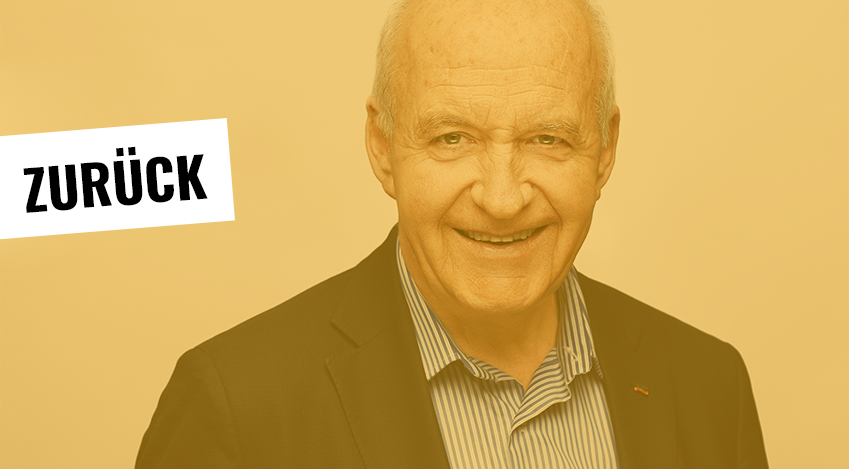
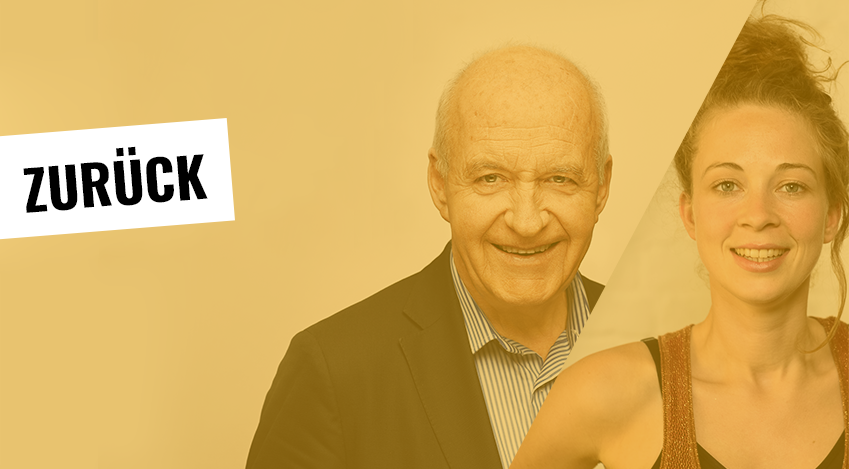
images updated, text gendered

diff --git a/src/pages/werde-botschafterin.js b/src/pages/werde-botschafterin.js
@@ -1,11 +1,13 @@
 import React from "react"
 import { Link } from "gatsby"
+import { Container, Row, Col, Image, Modal, Button } from "react-bootstrap"
 
 import Layout from "../components/layout"
 import SEO from "../components/seo"
 
 import Header from "../components/Header"
 import BotschafterWerner from "../components/images/botschafterWerner"
+import BotschafterSteinhaus from "../components/images/botschafterSteinhaus"
 import DownloadIcon from "../components/images/download-icon"
 
 import BtnGrundeinkommenSchwarz from "../components/images/btnGrundeinkommenSchwarz"
@@ -13,14 +15,42 @@ import BtnGrundeinkommenOrange from "../components/images/btnGrundeinkommenOrang
 import BotschafterBackBlack from "../components/images/botschafterBackBlack"
 import BotschafterBackOrange from "../components/images/botschafterBackOrange"
 
-const WerdeBotschafter = () => (
+/* function MyVerticallyCenteredModal(props) {
+  return (
+    <Modal
+      {...props}
+      size="lg"
+      aria-labelledby="contained-modal-title-vcenter"
+      centered
+    >
+      <Modal.Header closeButton>
+      </Modal.Header>
+      <Modal.Body>
+        {console.log(props)}
+      <BotschafterWerner/>
+      </Modal.Body>
+    </Modal>
+  );
+} */
+
+
+function WerdeBotschafter() {
+/*   const [modalShow, setModalShow] = React.useState(false); */
+
+  return (
   <Layout>
     <SEO title="Werde Botschafter"
-    imgFb="/BGE_post_facebook_1200x627_5.jpg"/>
+    imgFb="/BGE_post_facebook_1200x627_5.jpg"
+    slug="/werde-botschafter"/>
     <div className="container">
       <Header url="/werde-botschafterin"/>
       <div className="row pb-4 mt-lg-3 pt-md-5">
         <div className="col-lg-6">
+          <BotschafterSteinhaus/>
+          <p className="mt-3 font-italic">Helena Steinhaus, Gründerin von Sanktionsfrei:</p>
+          <p className="px-5 mt-3 mb-5 text-center">
+            „Grundeinkommen ist ein Grundpfeiler auf dem Weg zur sozialen und Geschlechtergerechtigkeit.”
+          </p>
           <BotschafterWerner/>
           <p className="mt-3 font-italic">Götz W. Werner, Gründer von dm-drogerie markt:</p>
           <p className="px-5 mt-3 mb-5 text-center">
@@ -41,6 +71,23 @@ const WerdeBotschafter = () => (
             <strong>#bedingungslosesGrundeinkommen</strong><br/>
             <strong>#bge</strong><br/>
           </p>
+{/*           <Container>
+            <Row>
+              <Col xs={6} md={4}>
+                <Image src="holder.js/171x180" thumbnail onClick={() => setModalShow(true)}/>
+                <MyVerticallyCenteredModal
+                    show={modalShow}
+                    onHide={() => setModalShow(false)}
+                  />
+              </Col>
+              <Col xs={6} md={4}>
+                <Image src="holder.js/171x180" thumbnail onClick={() => setModalShow(true)}/>
+              </Col>
+              <Col xs={6} md={4}>
+                <Image src="holder.js/171x180" thumbnail onClick={() => setModalShow(true)}/>
+              </Col>
+            </Row>
+          </Container> */}
           <div className="my-4">
             <a href="/BGE_post_facebook_1200x627_9.zip" download className="custom-anchor">
               <div className="row">
@@ -66,44 +113,45 @@ const WerdeBotschafter = () => (
         </div>
       </div>
     </div>
- <div className="bg-light pb-3">
-        <div className="container">
-            <div className="row">
-                <div className="col-lg-6 py-3 pt-lg-5">
-                    <div className="btn-container mx-auto">
-                        <Link to="/warum-grundeinkommen">
-                          <BtnGrundeinkommenSchwarz/>
-                            <div className="overlay col-lg-12 py-3 pt-lg-5">
-                              <BtnGrundeinkommenOrange/>
-                            </div>
-                        </Link>
-                    </div>
-                </div>
-                <div className="col-lg-6 pb-3 pt-lg-5">
-                    <div className="btn-container mx-auto">
-                        <Link to="/">
-                          <BotschafterBackBlack/>
-                            <div className="overlay col-lg-12 pb-3 pt-lg-5">
-                              <BotschafterBackOrange/>
-                            </div>
-                        </Link>
-                        <p className="text-dark pt-2 pr-3 mb-0 text-right font-italic">Götz W. Werner, Gründer von dm-drogerie markt</p>
-                    </div>
-                </div>
-            </div>
-        </div>
-        <footer class="py-2">
-          <div className="container">
-              <div className="row">
-                  <div className="col-12 text-center">
-                      <Link to="/impressum/" className="mx-3">Impressum</Link>
-                      <Link to="/datenschutz/" className="mx-3">Datenschutz</Link>
+  <div className="bg-light pb-3">
+      <div className="container">
+          <div className="row">
+              <div className="col-lg-6 py-3 pt-lg-5">
+                  <div className="btn-container mx-auto">
+                      <Link to="/warum-grundeinkommen">
+                        <BtnGrundeinkommenSchwarz/>
+                          <div className="overlay col-lg-12 py-3 pt-lg-5">
+                            <BtnGrundeinkommenOrange/>
+                          </div>
+                      </Link>
+                  </div>
+              </div>
+              <div className="col-lg-6 pb-3 pt-lg-5">
+                  <div className="btn-container mx-auto">
+                      <Link to="/">
+                        <BotschafterBackBlack/>
+                          <div className="overlay col-lg-12 pb-3 pt-lg-5">
+                            <BotschafterBackOrange/>
+                          </div>
+                      </Link>
+                       
                   </div>
               </div>
           </div>
-        </footer>
+      </div>
+      <footer class="py-2">
+        <div className="container">
+            <div className="row">
+                <div className="col-12 text-center">
+                    <Link to="/impressum/" className="mx-3">Impressum</Link>
+                    <Link to="/datenschutz/" className="mx-3">Datenschutz</Link>
+                </div>
+            </div>
+        </div>
+      </footer>
     </div>
   </Layout>
-)
+  )
+}
 
 export default WerdeBotschafter

diff --git a/src/components/seo.js b/src/components/seo.js
@@ -7,10 +7,11 @@
 
 import React from "react"
 import PropTypes from "prop-types"
+import favicon from '../images/favicon.ico'
 import Helmet from "react-helmet"
 import { useStaticQuery, graphql } from "gatsby"
 
-function SEO({ description, lang, meta, title, imgFb }) {
+function SEO({ description, lang, meta, title, imgFb, slug }) {
   const { site } = useStaticQuery(
     graphql`
       query {
@@ -56,6 +57,10 @@ function SEO({ description, lang, meta, title, imgFb }) {
           content: imgFb,
         },
         {
+          property: `url`,
+          content: `https://www.mensch-in-germany.org${slug}`
+        },
+        {
           property: `og:image:alt`,
           content: `Das Grundeinkommen kommt! Jetzt abstimmen und die Petition unterzeichnen!`
         },
@@ -77,6 +82,7 @@ function SEO({ description, lang, meta, title, imgFb }) {
         },
       ].concat(meta)}
     >
+      <link rel="icon" href={favicon} />
       <link href="https://fonts.googleapis.com/css2?family=Oswald:wght@400;700&display=swap" rel="stylesheet"/>
       <link href="https://fonts.googleapis.com/css2?family=Source+Sans+Pro:ital,wght@0,400;0,700;1,400;1,700&display=swap" rel="stylesheet"/>
     </Helmet>

diff --git a/src/components/images/botschafterSteinhaus.js b/src/components/images/botschafterSteinhaus.js
@@ -1,0 +1,32 @@
+import React from "react"
+import { useStaticQuery, graphql } from "gatsby"
+import Img from "gatsby-image"
+
+/*
+ * This component is built using `gatsby-image` to automatically serve optimized
+ * images with lazy loading and reduced file sizes. The image is loaded using a
+ * `useStaticQuery`, which allows us to load the image from directly within this
+ * component, rather than having to pass the image data down from pages.
+ *
+ * For more information, see the docs:
+ * - `gatsby-image`: https://gatsby.dev/gatsby-image
+ * - `useStaticQuery`: https://www.gatsbyjs.org/docs/use-static-query/
+ */
+
+const BotschafterSteinhaus = () => {
+  const data = useStaticQuery(graphql`
+    query {
+      placeholderImage: file(relativePath: { eq: "Botschafter_Contentbild_Steinhaus.png" }) {
+        childImageSharp {
+          fluid {
+            ...GatsbyImageSharpFluid_noBase64
+          }
+        }
+      }
+    }
+  `)
+
+  return <Img fluid={data.placeholderImage.childImageSharp.fluid} alt="Helena Steinhaus, Portrait"/>
+}
+
+export default BotschafterSteinhaus

diff --git a/src/pages/warum-grundeinkommen.js b/src/pages/warum-grundeinkommen.js
@@ -14,7 +14,8 @@ import Header from "../components/Header"
 const WarumGrundeinkommen = () => (
   <Layout>
     <SEO title="Warum Grundeinkommen" 
-    imgFb="/BGE_post_facebook_1200x627_1.jpg"/>
+    imgFb="/BGE_post_facebook_1200x627_1.jpg"
+    slug="/warum-grundeinkommen"/>
     <div className="container">
       <Header url="/warum-grundeinkommen"/>
       <div className="row mb-3 mt-lg-3 pt-md-5">
@@ -68,7 +69,7 @@ const WarumGrundeinkommen = () => (
                                 <BtnBotschafterOrange/>
                             </div>
                         </Link>
-                        <p className="text-dark pt-2 pr-3 mb-0 text-right font-italic">Götz W. Werner, Gründer von dm-drogerie markt</p>
+                         
                     </div>
                 </div>
             </div>

diff --git a/src/components/images/headline-botschafter.js b/src/components/images/headline-botschafter.js
@@ -5,7 +5,7 @@ import Img from "gatsby-image"
 const HeadlineBotschafter = () => {
   const data = useStaticQuery(graphql`
     query {
-      image: file(relativePath: { eq: "Unterseite_Werde_Botschafter_Headlinegrafik.png" }) {
+      image: file(relativePath: { eq: "Unterseite_Werde_Botschafter_Headlinegrafik_NEU.png" }) {
         childImageSharp {
           fluid{
             ...GatsbyImageSharpFluid_noBase64
@@ -15,7 +15,7 @@ const HeadlineBotschafter = () => {
     }
   `)
     
-  return <Img fluid={data.image.childImageSharp.fluid} alt="Werde Botschafter!" style={{maxWidth: "420px"}}/>
+  return <Img fluid={data.image.childImageSharp.fluid} alt="Werde Botschafter!" style={{maxWidth: "450px"}}/>
 }
 
 export default HeadlineBotschafter

diff --git a/gatsby-config.js b/gatsby-config.js
@@ -3,7 +3,6 @@ module.exports = {
     title: `Mensch in Germany`,
     description: `Wir alle sind die Wirtschaft. Unterstütze uns dabei, die größte Petition zum Thema Grundeinkommen zu werden. Jetzt bis zum 27.04. unterschreiben.`,
     author: `Maximilian Meeks`,
-    url: `https://www.mensch-in-germany.org/`,
     image: `/BGE_post_facebook_1200x627_4.jpg`
   },
   pathPrefix: "/petition-grundeinkommen",
@@ -28,8 +27,7 @@ module.exports = {
         start_url: `/`,
         background_color: `#eca400`,
         theme_color: `#eca400`,
-        display: `minimal-ui`,
-        icon: `favicon.ico`, // This path is relative to the root of the site.
+        display: `minimal-ui`
       },
     },
     {

diff --git a/src/components/navbar.js b/src/components/navbar.js
@@ -20,7 +20,7 @@ export default (props) => (
                         <Link to="/warum-grundeinkommen" className="nav-link">Warum Grundeinkommen</Link>
                     </Nav.Link>
                     <Nav.Link>
-                        <Link to="/werde-botschafterin" className="nav-link">Werde BotschafterIn</Link>
+                        <Link to="/werde-botschafterin" className="nav-link">Werde Botschafter*In</Link>
                     </Nav.Link>
                 </Nav>
             </Navbar.Collapse>

diff --git a/src/components/images/btnBotschafterSchwarz.js b/src/components/images/btnBotschafterSchwarz.js
@@ -6,7 +6,7 @@ import Img from "gatsby-image"
 const BtnBotschafterSchwarz = () => {
   const data = useStaticQuery(graphql`
     query {
-      placeholderImage: file(relativePath: { eq: "Teaser_Botschafter_schwarz_fixed.png" }) {
+      placeholderImage: file(relativePath: { eq: "Teaser_Botschafter_schwarz_NEU.png" }) {
         childImageSharp {
           fluid {
             ...GatsbyImageSharpFluid_noBase64

diff --git a/src/components/images/btnBotschafterOrange.js b/src/components/images/btnBotschafterOrange.js
@@ -6,7 +6,7 @@ import Img from "gatsby-image"
 const BtnBotschafterOrange = () => {
   const data = useStaticQuery(graphql`
     query {
-      placeholderImage: file(relativePath: { eq: "Teaser_Botschafter_orange_fixed.png" }) {
+      placeholderImage: file(relativePath: { eq: "Teaser_Botschafter_orange_NEU.png" }) {
         childImageSharp {
           fluid {
             ...GatsbyImageSharpFluid_noBase64

diff --git a/src/components/ImageMenu.js b/src/components/ImageMenu.js
@@ -29,7 +29,6 @@ export default (props) => (
                                 <BtnBotschafterOrange/>
                             </div>
                         </Link>
-                        <p className="text-dark pt-2 pr-3 mb-0 text-right font-italic">Götz W. Werner, Gründer von dm-drogerie markt</p>
                     </div>
                 </div>
             </div>

diff --git a/src/pages/datenschutz.js b/src/pages/datenschutz.js
@@ -9,7 +9,8 @@ import Header from "../components/Header"
 const Datenschutz = () => (
   <Layout>
     <SEO title="Datenschutzverordnung" 
-	imgFb="/BGE_post_facebook_1200x627_4.jpg" />
+	imgFb="/BGE_post_facebook_1200x627_4.jpg" 
+	slug="/datenschutz"/>
     <div className="container dsgvo">
       <Header url="/datenschutz"/>
 	  <div className="mb-3 mt-lg-3 pt-md-5">

diff --git a/src/pages/wer-wir-sind.js b/src/pages/wer-wir-sind.js
@@ -9,7 +9,8 @@ import Header from "../components/Header"
 const About = () => (
   <Layout>
     <SEO title="Wer wir sind" 
-    imgFb="/BGE_post_facebook_1200x627_3.jpg"/>
+    imgFb="/BGE_post_facebook_1200x627_3.jpg"
+    slug="/wer-wir-sind"/>
     <div className="container">
       <Header url="/wer-wir-sind"/>
       <div className="row mb-3 mt-lg-3 pt-md-5">
